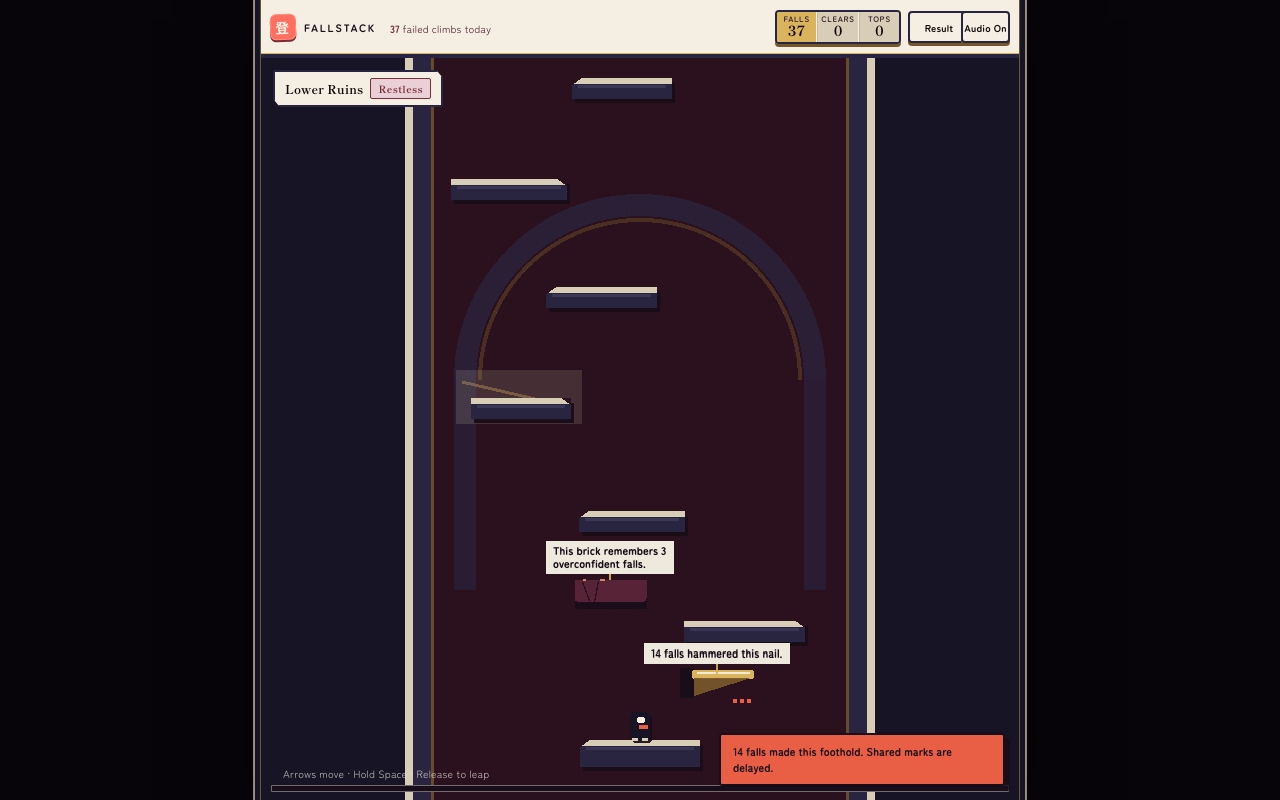
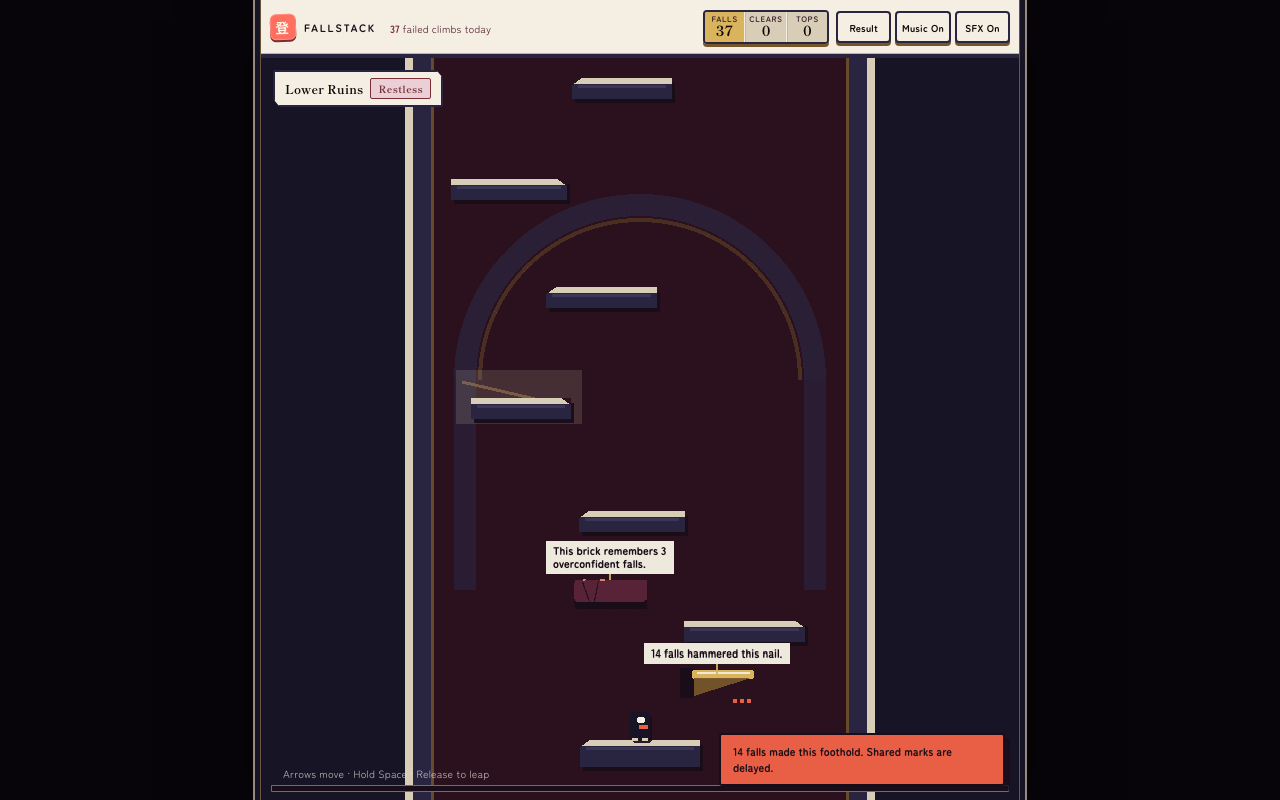
feat(client): separate and refine game audio

Changed region(s): [[0.5312, 0.0, 0.7812, 0.0625]]

diff --git a/fallstack/src/client/game/sound.ts b/fallstack/src/client/game/sound.ts
@@ -12,15 +12,20 @@ type SoundOptions = {
   musicMuted: boolean;
 };
 
+const MUSIC_PHRASE = [293.66, 440, 369.99, 329.63, 246.94, 293.66, 220, 246.94] as const;
+
 export class ProceduralSound {
   private context: AudioContext | null = null;
   private chargeOsc: OscillatorNode | null = null;
   private chargeGain: GainNode | null = null;
+  private masterGain: GainNode | null = null;
+  private gameplayGain: GainNode | null = null;
   private musicGain: GainNode | null = null;
   private musicNodes: AudioNode[] = [];
   private musicTimers: number[] = [];
   private musicStopTimer: number | null = null;
   private musicStartTimer: number | null = null;
+  private musicPhraseIndex = 0;
 
   constructor(private options: SoundOptions) {}
 
@@ -44,6 +49,7 @@ export class ProceduralSound {
     const AudioContextCtor = window.AudioContext ?? window.webkitAudioContext;
     if (!AudioContextCtor) return;
     this.context ??= new AudioContextCtor();
+    this.ensureOutputBuses();
     if (this.context.state === 'suspended') void this.context.resume();
     if (
       !this.options.musicMuted &&
@@ -65,9 +71,9 @@ export class ProceduralSound {
     if (id === 'launch') return this.launch();
     if (id === 'land') return this.land(zoneId);
     if (id === 'fall') return this.fall();
-    if (id === 'mutation') return this.ping(620, 0.12, 0.035);
+    if (id === 'mutation') return this.ping(369.99, 0.16, 0.026);
     if (id === 'checkpoint') return this.checkpoint();
-    return this.noise(0.025, 1400, 0.018);
+    return this.noise(0.035, 900, 0.014);
   }
 
   stopCharge() {
@@ -89,48 +95,48 @@ export class ProceduralSound {
       this.musicStopTimer = null;
     }
 
-    if (this.musicGain) {
+    if (this.musicGain && this.musicNodes.length > 0) {
       const now = this.context.currentTime;
       this.musicGain.gain.cancelScheduledValues(now);
-      this.musicGain.gain.setTargetAtTime(0.045, now, 0.18);
+      this.musicGain.gain.setTargetAtTime(0.16, now, 0.35);
       if (this.musicTimers.length === 0) this.startBellLoop();
       return;
     }
 
     const now = this.context.currentTime;
-    this.musicGain = this.context.createGain();
+    this.ensureOutputBuses();
+    if (!this.musicGain) return;
     this.musicGain.gain.setValueAtTime(0.0001, now);
-    this.musicGain.gain.exponentialRampToValueAtTime(0.045, now + 1.8);
-    this.musicGain.connect(this.context.destination);
+    this.musicGain.gain.exponentialRampToValueAtTime(0.16, now + 2.4);
 
     const filter = this.context.createBiquadFilter();
     filter.type = 'lowpass';
-    filter.frequency.setValueAtTime(760, now);
-    filter.Q.setValueAtTime(0.72, now);
+    filter.frequency.setValueAtTime(680, now);
+    filter.Q.setValueAtTime(0.45, now);
     filter.connect(this.musicGain);
     this.musicNodes.push(filter);
 
     const droneA = this.context.createOscillator();
     const droneAGain = this.context.createGain();
-    droneA.type = 'sine';
-    droneA.frequency.setValueAtTime(55, now);
-    droneAGain.gain.setValueAtTime(0.24, now);
+    droneA.type = 'triangle';
+    droneA.frequency.setValueAtTime(146.83, now);
+    droneAGain.gain.setValueAtTime(0.055, now);
     droneA.connect(droneAGain).connect(filter);
     droneA.start(now);
 
     const droneB = this.context.createOscillator();
     const droneBGain = this.context.createGain();
-    droneB.type = 'triangle';
-    droneB.frequency.setValueAtTime(82.41, now);
-    droneBGain.gain.setValueAtTime(0.085, now);
+    droneB.type = 'sine';
+    droneB.frequency.setValueAtTime(220, now);
+    droneBGain.gain.setValueAtTime(0.035, now);
     droneB.connect(droneBGain).connect(filter);
     droneB.start(now);
 
     const pulse = this.context.createOscillator();
     const pulseGain = this.context.createGain();
     pulse.type = 'sine';
-    pulse.frequency.setValueAtTime(0.07, now);
-    pulseGain.gain.setValueAtTime(35, now);
+    pulse.frequency.setValueAtTime(0.045, now);
+    pulseGain.gain.setValueAtTime(55, now);
     pulse.connect(pulseGain).connect(filter.frequency);
     pulse.start(now);
 
@@ -161,25 +167,23 @@ export class ProceduralSound {
         node.disconnect();
       }
       this.musicNodes = [];
-      this.musicGain?.disconnect();
-      this.musicGain = null;
     }, 420);
   }
 
   private startBellLoop() {
     this.playMusicBell();
-    const timer = window.setInterval(() => this.playMusicBell(), 3600);
+    const timer = window.setInterval(() => this.playMusicBell(), 4400);
     this.musicTimers.push(timer);
   }
 
   private playMusicBell() {
     if (!this.context || !this.musicGain || this.options.musicMuted) return;
-    const scale = [220, 246.94, 293.66, 329.63, 392, 440];
     const now = this.context.currentTime;
-    const root = scale[Math.floor(Math.random() * scale.length)]!;
-    this.musicBell(root, now + 0.08, 0.028);
-    this.musicBell(root * 1.5, now + 0.72, 0.016);
-    if (Math.random() > 0.45) this.musicBell(root * 2, now + 1.38, 0.012);
+    const first = MUSIC_PHRASE[this.musicPhraseIndex % MUSIC_PHRASE.length]!;
+    const second = MUSIC_PHRASE[(this.musicPhraseIndex + 1) % MUSIC_PHRASE.length]!;
+    this.musicPhraseIndex = (this.musicPhraseIndex + 2) % MUSIC_PHRASE.length;
+    this.musicBell(first, now + 0.08, 0.055);
+    this.musicBell(second, now + 1.72, 0.038);
   }
 
   private musicBell(frequency: number, startAt: number, volume: number) {
@@ -189,15 +193,15 @@ export class ProceduralSound {
     const filter = this.context.createBiquadFilter();
     osc.type = 'sine';
     osc.frequency.setValueAtTime(frequency, startAt);
-    filter.type = 'bandpass';
-    filter.frequency.setValueAtTime(frequency * 2, startAt);
-    filter.Q.setValueAtTime(8, startAt);
+    filter.type = 'lowpass';
+    filter.frequency.setValueAtTime(1400, startAt);
+    filter.Q.setValueAtTime(0.7, startAt);
     gain.gain.setValueAtTime(0.0001, startAt);
-    gain.gain.exponentialRampToValueAtTime(volume, startAt + 0.04);
-    gain.gain.exponentialRampToValueAtTime(0.0001, startAt + 1.8);
+    gain.gain.exponentialRampToValueAtTime(volume, startAt + 0.08);
+    gain.gain.exponentialRampToValueAtTime(0.0001, startAt + 2.6);
     osc.connect(filter).connect(gain).connect(this.musicGain);
     osc.start(startAt);
-    osc.stop(startAt + 2);
+    osc.stop(startAt + 2.8);
     osc.addEventListener(
       'ended',
       () => {
@@ -214,36 +218,36 @@ export class ProceduralSound {
     const now = this.context.currentTime;
     this.chargeOsc = this.context.createOscillator();
     this.chargeGain = this.context.createGain();
-    this.chargeOsc.type = 'sine';
-    this.chargeOsc.frequency.setValueAtTime(170, now);
-    this.chargeOsc.frequency.exponentialRampToValueAtTime(520, now + 0.9);
+    this.chargeOsc.type = 'triangle';
+    this.chargeOsc.frequency.setValueAtTime(130, now);
+    this.chargeOsc.frequency.exponentialRampToValueAtTime(330, now + 0.9);
     this.chargeGain.gain.setValueAtTime(0.0001, now);
-    this.chargeGain.gain.exponentialRampToValueAtTime(0.035, now + 0.12);
-    this.chargeOsc.connect(this.chargeGain).connect(this.context.destination);
+    this.chargeGain.gain.exponentialRampToValueAtTime(0.025, now + 0.16);
+    this.chargeOsc.connect(this.chargeGain).connect(this.gameplayOutput());
     this.chargeOsc.start(now);
   }
 
   private launch() {
     this.stopCharge();
-    this.ping(240, 0.08, 0.03);
-    window.setTimeout(() => this.ping(360, 0.055, 0.016), 28);
+    this.ping(220, 0.1, 0.028);
+    window.setTimeout(() => this.ping(293.66, 0.09, 0.018), 34);
   }
 
   private land(zoneId?: ZoneId) {
     const zoneIndex = zoneId ? ZONE_IDS.indexOf(zoneId) : 0;
-    if (zoneIndex >= ZONE_IDS.length * 0.66) return this.ping(980, 0.18, 0.018);
-    if (zoneIndex >= ZONE_IDS.length * 0.33) return this.ping(760, 0.12, 0.022);
-    return this.ping(180, 0.07, 0.028);
+    if (zoneIndex >= ZONE_IDS.length * 0.66) return this.ping(440, 0.15, 0.02);
+    if (zoneIndex >= ZONE_IDS.length * 0.33) return this.ping(329.63, 0.12, 0.022);
+    return this.ping(164.81, 0.08, 0.026);
   }
 
   private fall() {
-    this.noise(0.09, 180, 0.05);
-    window.setTimeout(() => this.ping(520, 0.16, 0.026), 120);
+    this.noise(0.12, 260, 0.035);
+    window.setTimeout(() => this.ping(146.83, 0.2, 0.022), 90);
   }
 
   private checkpoint() {
-    this.ping(420, 0.16, 0.026);
-    window.setTimeout(() => this.ping(630, 0.18, 0.024), 80);
+    this.ping(293.66, 0.18, 0.026);
+    window.setTimeout(() => this.ping(440, 0.24, 0.022), 110);
   }
 
   private ping(frequency: number, duration: number, volume: number) {
@@ -251,11 +255,11 @@ export class ProceduralSound {
     const now = this.context.currentTime;
     const osc = this.context.createOscillator();
     const gain = this.context.createGain();
-    osc.type = 'triangle';
+    osc.type = 'sine';
     osc.frequency.setValueAtTime(frequency, now);
     gain.gain.setValueAtTime(volume, now);
     gain.gain.exponentialRampToValueAtTime(0.0001, now + duration);
-    osc.connect(gain).connect(this.context.destination);
+    osc.connect(gain).connect(this.gameplayOutput());
     osc.start(now);
     osc.stop(now + duration + 0.02);
   }
@@ -278,7 +282,34 @@ export class ProceduralSound {
     filter.frequency.value = filterFrequency;
     gain.gain.value = volume;
     source.buffer = buffer;
-    source.connect(filter).connect(gain).connect(this.context.destination);
+    source.connect(filter).connect(gain).connect(this.gameplayOutput());
     source.start();
+  }
+
+  private ensureOutputBuses() {
+    if (!this.context || this.masterGain) return;
+    const now = this.context.currentTime;
+    const compressor = this.context.createDynamicsCompressor();
+    compressor.threshold.setValueAtTime(-22, now);
+    compressor.knee.setValueAtTime(18, now);
+    compressor.ratio.setValueAtTime(3, now);
+    compressor.attack.setValueAtTime(0.012, now);
+    compressor.release.setValueAtTime(0.24, now);
+
+    this.masterGain = this.context.createGain();
+    this.masterGain.gain.setValueAtTime(0.72, now);
+    this.gameplayGain = this.context.createGain();
+    this.gameplayGain.gain.setValueAtTime(0.8, now);
+    this.musicGain = this.context.createGain();
+    this.musicGain.gain.setValueAtTime(0.0001, now);
+
+    this.gameplayGain.connect(this.masterGain);
+    this.musicGain.connect(this.masterGain);
+    this.masterGain.connect(compressor).connect(this.context.destination);
+  }
+
+  private gameplayOutput() {
+    this.ensureOutputBuses();
+    return this.gameplayGain ?? this.context!.destination;
   }
 }

diff --git a/fallstack/src/client/game-app.tsx b/fallstack/src/client/game-app.tsx
@@ -1516,14 +1516,6 @@ export function GameApp() {
     const label = currentZoneInfo.statusLabel ?? 'Untouched';
     return STATUS_TO_BADGE_CLASS[label] ?? 'badge-quiet';
   }, [currentZoneInfo.statusLabel]);
-  const audioMuted = gameplayMuted && musicMuted;
-
-  const toggleAudio = () => {
-    const nextMuted = !audioMuted;
-    setGameplayMuted(nextMuted);
-    setMusicMuted(nextMuted);
-  };
-
   return (
     <main className="game-shell">
       {/* ── TOP BAR ── */}
@@ -1570,11 +1562,20 @@ export function GameApp() {
           <button
             type="button"
             className="action-btn"
-            onClick={toggleAudio}
-            aria-pressed={audioMuted}
-            aria-label={audioMuted ? 'Turn audio on' : 'Turn audio off'}
+            onClick={() => setMusicMuted(muted => !muted)}
+            aria-pressed={musicMuted}
+            aria-label={musicMuted ? 'Turn music on' : 'Turn music off'}
           >
-            {audioMuted ? 'Audio Off' : 'Audio On'}
+            Music {musicMuted ? 'Off' : 'On'}
+          </button>
+          <button
+            type="button"
+            className="action-btn"
+            onClick={() => setGameplayMuted(muted => !muted)}
+            aria-pressed={gameplayMuted}
+            aria-label={gameplayMuted ? 'Turn sound effects on' : 'Turn sound effects off'}
+          >
+            SFX {gameplayMuted ? 'Off' : 'On'}
           </button>
         </div>
       </header>

diff --git a/fallstack/src/client/index.css b/fallstack/src/client/index.css
@@ -427,19 +427,19 @@ button:disabled {
 .topbar-actions {
   grid-area: actions;
   display: grid;
-  grid-template-columns: repeat(2, minmax(62px, 1fr));
+  grid-template-columns: repeat(3, minmax(52px, 1fr));
   gap: 4px;
 }
 
 .topbar-actions .action-btn:first-child {
-  min-width: 62px;
+  min-width: 0;
 }
 
 .action-btn {
   display: flex;
   align-items: center;
   justify-content: center;
-  min-width: 48px;
+  min-width: 0;
   min-height: 24px;
   padding: 0 6px;
   border-radius: var(--radius-sm);
@@ -1251,7 +1251,7 @@ button:disabled {
 
 .topbar {
   display: grid;
-  grid-template-columns: minmax(116px, 1fr) 126px 102px;
+  grid-template-columns: minmax(116px, 1fr) 126px 174px;
   grid-template-areas: 'brand stats actions';
   min-height: 58px;
   padding: 7px 9px;
@@ -1286,8 +1286,8 @@ button:disabled {
 }
 
 .topbar-actions {
-  grid-template-columns: repeat(2, minmax(0, 1fr));
-  width: 102px;
+  grid-template-columns: repeat(3, minmax(0, 1fr));
+  width: 174px;
 }
 
 .action-btn {
@@ -1511,7 +1511,7 @@ button:disabled {
 
 @media (max-width: 599px) {
   .topbar {
-    grid-template-columns: minmax(116px, 1fr) 48px 94px;
+    grid-template-columns: minmax(108px, 1fr) 48px 132px;
     grid-template-areas: 'brand stats actions';
     min-height: 58px;
     padding: 6px 7px;
@@ -1539,7 +1539,7 @@ button:disabled {
   }
 
   .topbar-actions {
-    width: 94px;
+    width: 132px;
   }
 
   .action-btn {

diff --git a/fallstack/take_screenshots.js b/fallstack/take_screenshots.js
@@ -8,10 +8,11 @@ const baseUrl = process.env.FALLSTACK_SCREENSHOT_URL ?? 'http://127.0.0.1:8080';
 
 async function assertHeaderBounds(page) {
   await page.locator('.topbar').waitFor();
-  const overflow = await page.locator('.stats-cluster').evaluate(cluster => {
+  const overflow = await page.locator('.topbar').evaluate(header => {
+    const cluster = header.querySelector('.stats-cluster');
+    if (!cluster) return [{ label: 'Missing stats cluster' }];
     const clusterRect = cluster.getBoundingClientRect();
-
-    return [...cluster.querySelectorAll('.stat-value')]
+    const statOverflow = [...cluster.querySelectorAll('.stat-value')]
       .map(value => {
         const valueRect = value.getBoundingClientRect();
         return {
@@ -30,6 +31,15 @@ async function assertHeaderBounds(page) {
             value.top < clusterRect.top ||
             value.bottom > clusterRect.bottom)
       );
+    const actionRects = [...header.querySelectorAll('.topbar-actions button')].map(button => {
+      const rect = button.getBoundingClientRect();
+      return { label: button.textContent?.trim() ?? 'Action', left: rect.left, right: rect.right };
+    });
+    const actionOverlap = actionRects.slice(1).flatMap((action, index) =>
+      action.left < actionRects[index].right ? [action] : []
+    );
+
+    return [...statOverflow, ...actionOverlap];
   });
 
   if (overflow.length > 0) {
